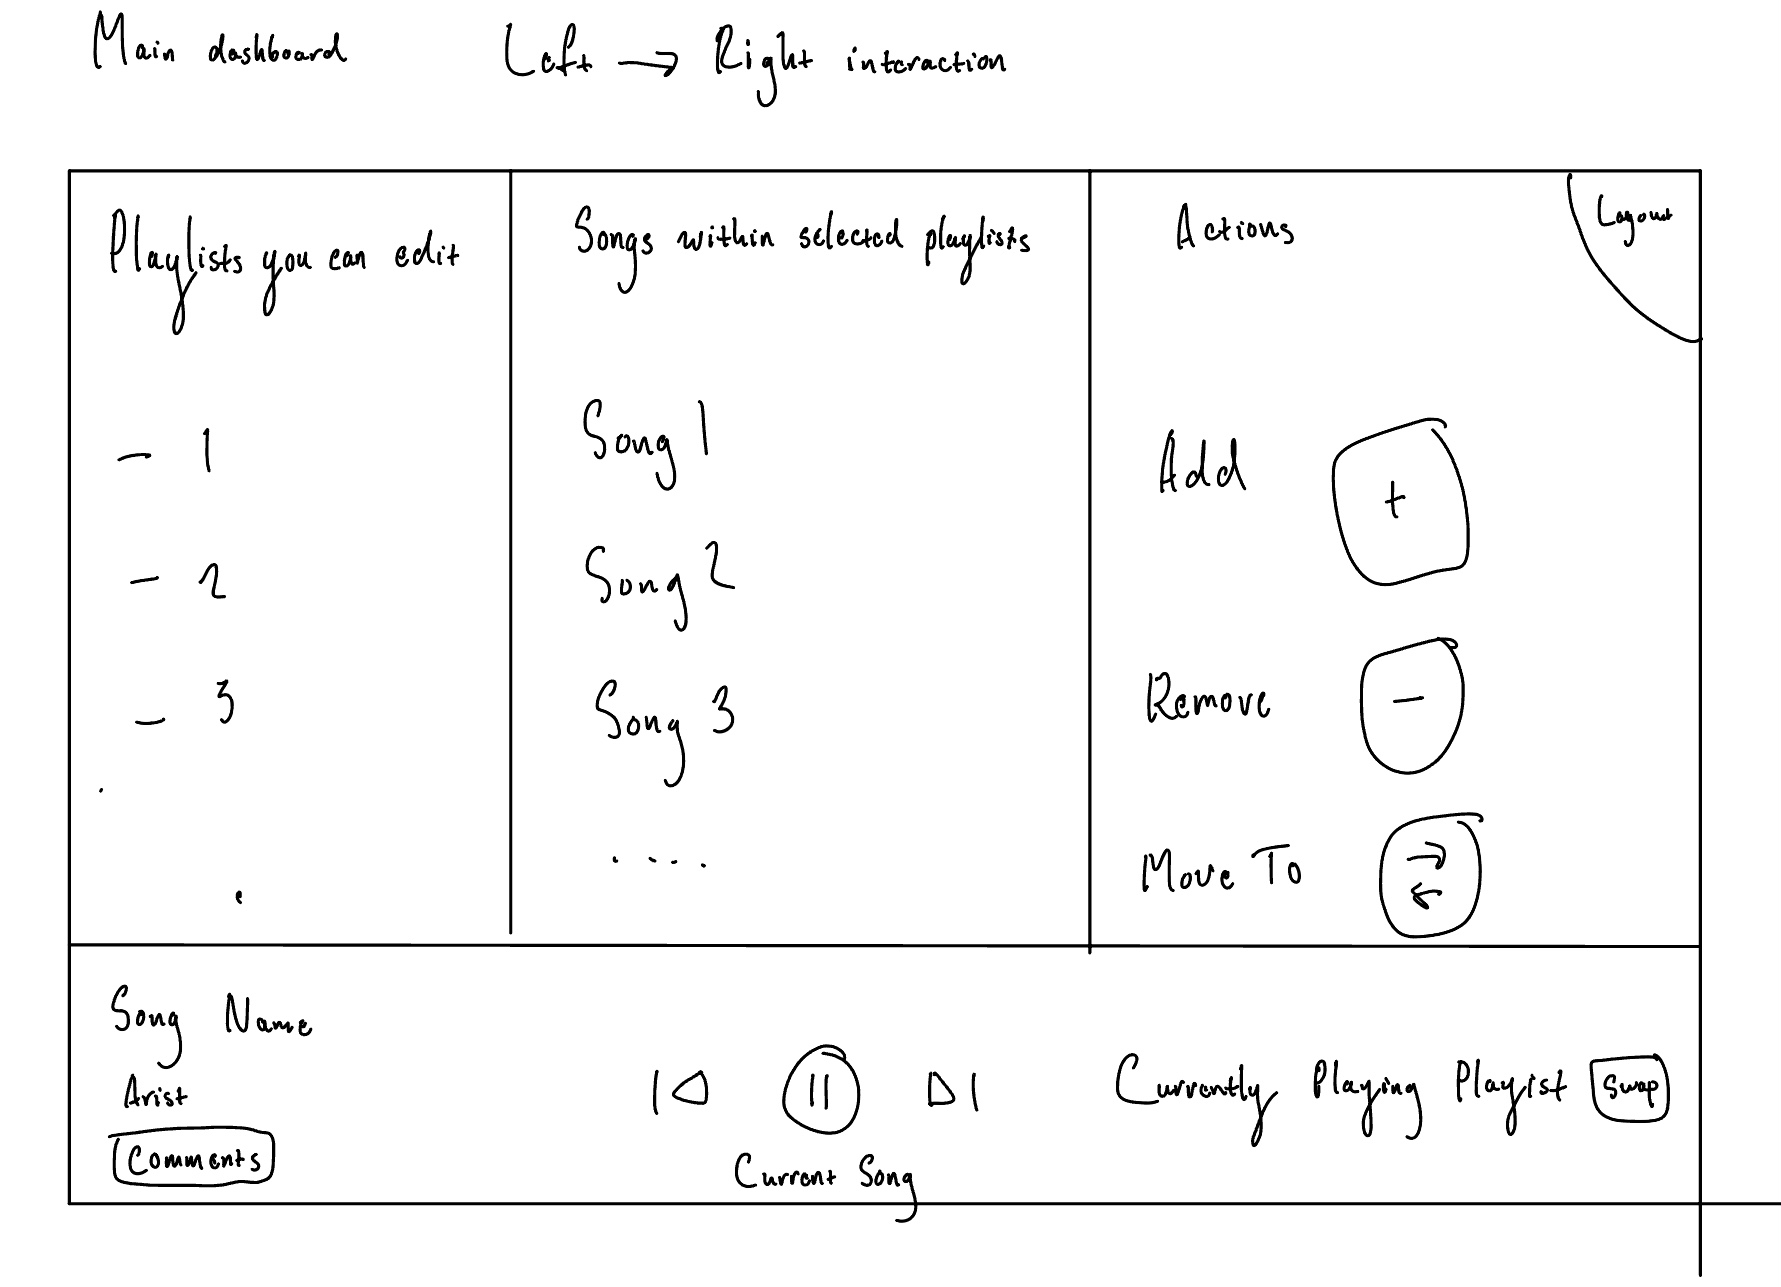
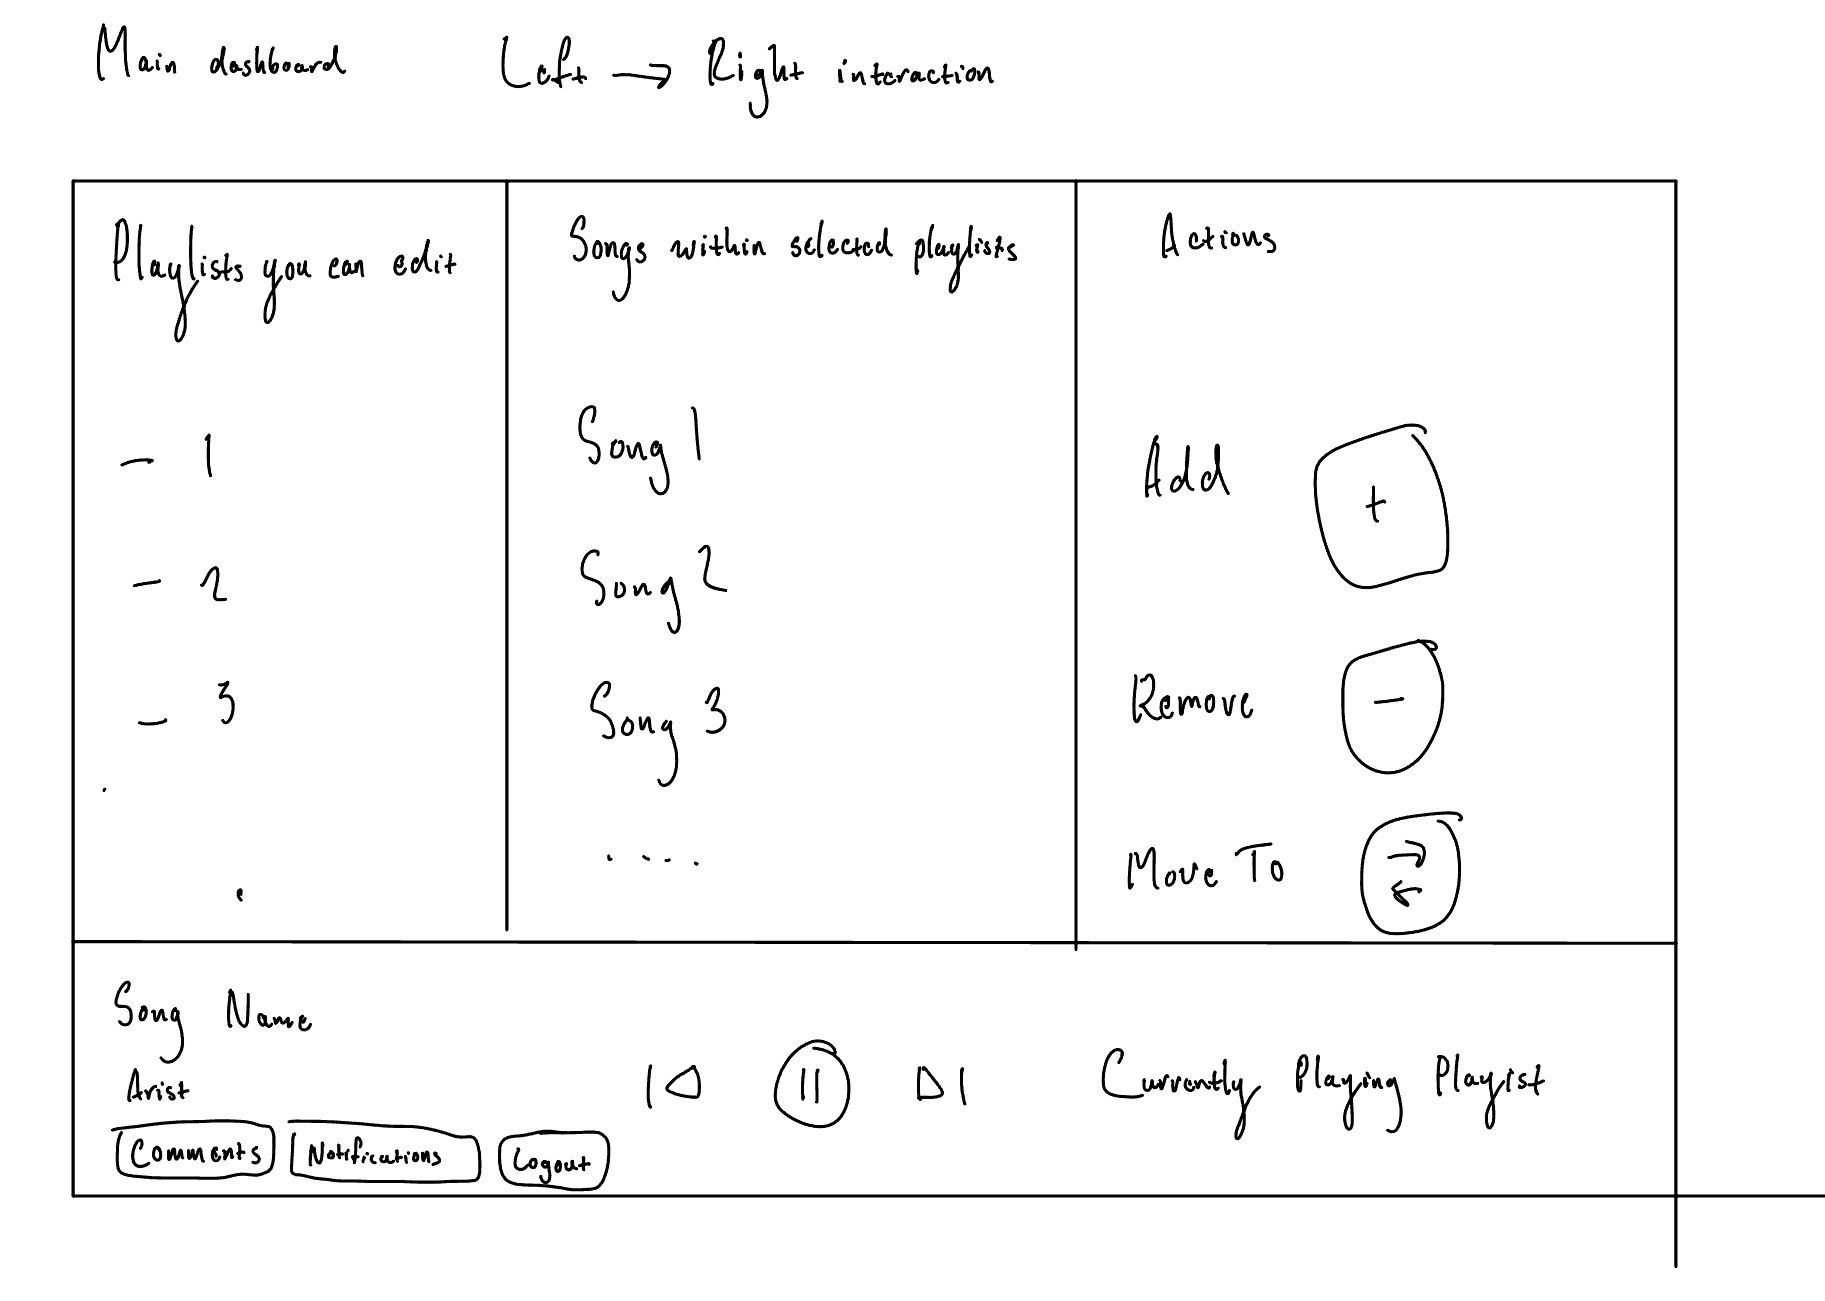
added wireframes and descriptions to md file

diff --git a/docs/milestone1.md b/docs/milestone1.md
@@ -1,12 +1,9 @@
 # Spotify Wheel UI - Wireframes and HTML
 
-
 ## Login Page
 ![Login Wireframe](assets/login_wf.jpeg "Login Wireframe")
 
 Above we have our login page for our application that mimics the spotify color theme.
-
-
 
 ## Main Dashboard
 ![Main Dashboard WireFrame](assets/main_wf.jpeg "Main Dashboard Wireframe")
@@ -18,10 +15,14 @@ Our UI enables this functionality by having the user follow steps from left to r
 they can edit from. After they select a playlist, the songs associated with that playlist are displayed within ceneter column. From there 
 the user can select which action they want to take manipulate the playlist. There is also a comments button within the bottom left corner that will open a new page that has the comments associated with that song and gives the user an oppurtunity to view what other peoples opinons on the currently playing song.
 
-
-
 ## Comments Page
-![Comments Page Wireframe](assets/ "Comments Wireframe")
+![Comments Page Wireframe](assets/comments_wf.jpeg "Comments Wireframe")
 
 The comments page displays information about the song in addition to comments made by other users. The user has the ability to leave 
-their own comments about a song and upvote others. 
+their own comments about a song and upvote others to share their opinions.
+
+# Division of Labor
+
+Shuby - I was responsible for drawing up the wireframes for each of the pages on the website and also was responsible for creating the login page.
+
+
